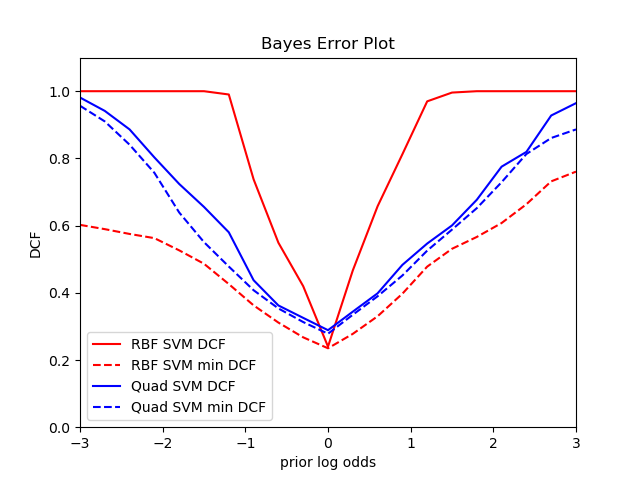
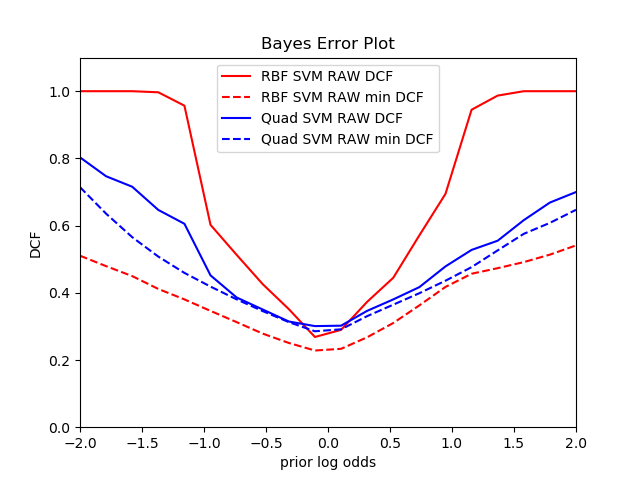
updated report and err bayes plot figure

diff --git a/model_validation.py b/model_validation.py
@@ -187,7 +187,7 @@ def bayes_error_plot(D, L, k, llr_calculator, otherParams, title, color ):
     plt.plot(effPriorLogOdds, dcf, color ,label=title+' DCF')
     plt.plot(effPriorLogOdds, mindcf, color+"--", label=title+ ' min DCF')
     plt.ylim([0,1.1])
-    plt.xlim([-3,3])
+    plt.xlim([-2,2])
     plt.legend()
     
 

diff --git a/report.md b/report.md
@@ -266,18 +266,18 @@ Best:  arancione K=0, c=1, C=0.1
 
 COLONNE 0.9 e 0.1 scambiate (ma giuste)
 
-|                                | prior=0.5   | prior=0.9   | prior=0.1   |
-| ------------------------------ | ----------- | ----------- | ----------- |
-| **Raw Features**               | ----------- | ----------- | ----------- |
-| Quad SVM, C=10, pi_T =0.5      | 0.246       | 0.735       | 0.732       |
-| Quad SVM, C=10, pi_T =0.1      | 0.902       | 0.995       | 0.995       |
-| Quad SVM, C=10, pi_T =0.9      | 0.386       | 0.693       | 0.876       |
-| Quad SVM, C=10, pi_T =pi_emp_T | 0.338       | 0.756       | 0.814       |
-| **Gaussianized features**      | ----------- | ----------- | ----------- |
-| Quad SVM, C=10, pi_T =0.5      | 0.246       | 0.632       | 0.709       |
-| Quad SVM, C=10, pi_T =0.1      | 0.579       | 0.995       | 0.952       |
-| Quad SVM, C=10, pi_T =0.9      | 0.397       | 0.670       | 0.953       |
-| Quad SVM, C=10, pi_T =pi_emp_T | 0.345       | 0.942       | 0.772       |
+| K=0, c=1, C=0.1                 | prior=0.5   | prior=0.9   | prior=0.1   |
+| ------------------------------- | ----------- | ----------- | ----------- |
+| **Raw Features**                | ----------- | ----------- | ----------- |
+| Quad SVM, C=0.1, pi_T =0.5      | 0.246       | 0.735       | 0.732       |
+| Quad SVM, C=0.1, pi_T =0.1      | 0.902       | 0.995       | 0.995       |
+| Quad SVM, C=0.1, pi_T =0.9      | 0.386       | 0.693       | 0.876       |
+| Quad SVM, C=0.1, pi_T =pi_emp_T | 0.338       | 0.756       | 0.814       |
+| **Gaussianized features**       | ----------- | ----------- | ----------- |
+| Quad SVM, C=0.1, pi_T =0.5      | 0.246       | 0.632       | 0.709       |
+| Quad SVM, C=0.1, pi_T =0.1      | 0.579       | 0.995       | 0.952       |
+| Quad SVM, C=0.1, pi_T =0.9      | 0.397       | 0.670       | 0.953       |
+| Quad SVM, C=0.1, pi_T =pi_emp_T | 0.345       | 0.942       | 0.772       |
 
 
 
@@ -345,19 +345,23 @@ loglam = 0, C=1, 0.5
 
 ## 
 
-RBF SVM, C=0.5, lam=1, pi_T =0.5 gaussianized features
+RBF SVM, C=0.5, lam=1, pi_T =0.5 gaussianized features 
 
 Quad SVM, C=10, pi_T =0.5, c=1,K=0 raw features 
 
+## nuove
 
+RBF SVM, C=1, lam=1, pi_T =0.5  0.218 raw
+
+Quad SVM, C=0.1 pi_T =0.5 0.246 raw
 
 ##### *** COMPARISON BETWEEN ACTUAL DCF and MIN DCF
 
-|                                                        | prior=0.5 |        | prior=0.1 |        | prior=0.9 |        |
-| ------------------------------------------------------ | --------- | ------ | --------- | ------ | --------- | ------ |
-|                                                        | minDCF    | actDCF | minDCF    | actDCF | minDCF    | actDCF |
-| RBF SVM, C=0.5, lam=1, pi_T =0.5 gaussianized features | 0.234     | 0.239  | 0.566     | 1.0    | 0.623     | 1.0    |
-| Quad SVM, C=10, pi_T =0.5, c=1,K=0 raw features        | 0.278     | 0.288  | 0.782     | 0.819  | 0.753     | 0.792  |
+|                                                  | prior=0.5 |        | prior=0.1 |        | prior=0.9 |        |
+| ------------------------------------------------ | --------- | ------ | --------- | ------ | --------- | ------ |
+|                                                  | minDCF    | actDCF | minDCF    | actDCF | minDCF    | actDCF |
+| RBF SVM, C=1, lam=1, pi_T =0.5 raw features      | 0.218     | 0.218  | 0.536     | 1.0    | 0.567     | 1.0    |
+| Quad SVM, C=0.1, pi_T =0.5, c=1,K=0 raw features | 0.273     | 0.296  | 0.798     | 0.852  | 0.691     | 0.749  |
 
 Bayes Error Plot, showing the DCFs for different applications:
 
@@ -365,17 +369,17 @@ Bayes Error Plot, showing the DCFs for different applications:
 
 After the threshold estimated protocol
 
-|                                                        | min DCF | act DCF (t theoretical threshold) | actDCF t estimated |
-| ------------------------------------------------------ | ------- | --------------------------------- | ------------------ |
-| **prior=0.5**                                          |         |                                   |                    |
-| RBF SVM, C=0.5, lam=1, pi_T =0.5 gaussianized features | 0.244   | 0.247                             | 0.244              |
-| Quad SVM, C=10, pi_T =0.5, c=1,K=0 raw features        | 0.279   | 0.294                             | 0.295              |
-| **prior=0.1**                                          |         |                                   |                    |
-| RBF SVM, C=0.5, lam=1, pi_T =0.5 gaussianized features | 0.581   | 1.0                               | 0.613              |
-| Quad SVM, C=10, pi_T =0.5, c=1,K=0 raw features        | 0.800   | 0.854                             | 0.844              |
-| **prior=0.9**                                          |         |                                   |                    |
-| RBF SVM, C=0.5, lam=1, pi_T =0.5 gaussianized features | 0.614   | 1.0                               | 0.615              |
-| Quad SVM, C=10, pi_T =0.5, c=1,K=0 raw features        | 0.747   | 0.772                             | 0.777              |
+|                                                  | min DCF | act DCF (t theoretical threshold) | actDCF t estimated |
+| ------------------------------------------------ | ------- | --------------------------------- | ------------------ |
+| **prior=0.5**                                    |         |                                   |                    |
+| RBF SVM, C=1, lam=1, pi_T =0.5 raw features      | 0.223   | 0.226                             | 0.229              |
+| Quad SVM, C=0.1, pi_T =0.5, c=1,K=0 raw features | 0.289   | 0.315                             | 0.314              |
+| **prior=0.1**                                    |         |                                   |                    |
+| RBF SVM, C=1, lam=1, pi_T =0.5 raw features      | 0.551   | 1.0                               | 0.601              |
+| Quad SVM, C=0.1, pi_T =0.5, c=1,K=0 raw features | 0.788   | 0.859                             | 0.898              |
+| **prior=0.9**                                    |         |                                   |                    |
+| RBF SVM, C=1, lam=1, pi_T =0.5 raw features      | 0.635   | 1.0                               | 0.662              |
+| Quad SVM, C=0.1, pi_T =0.5, c=1,K=0 raw features | 0.697   | 0.752                             | 0.731              |
 
 
 
